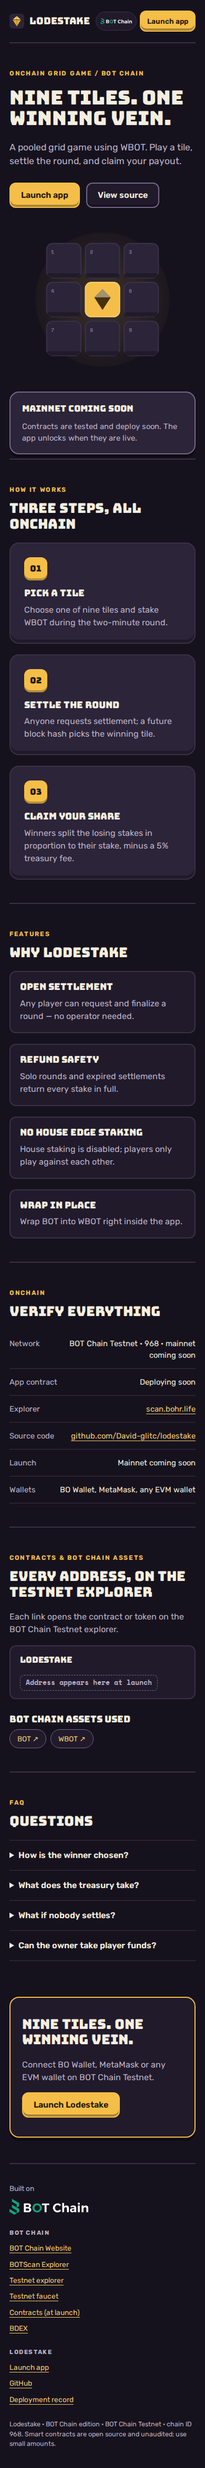
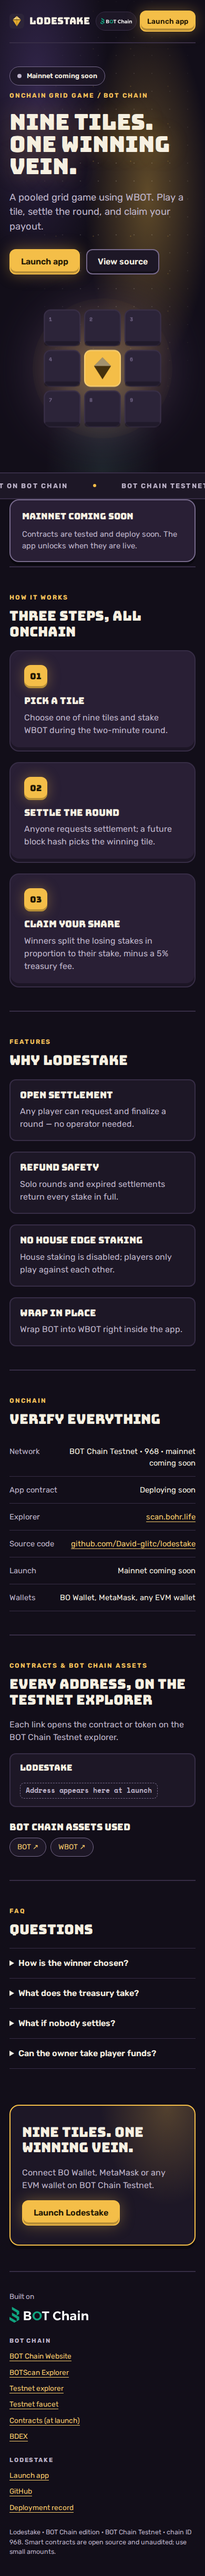
Dark web3 design: glowing heroes, status chip, ticker

diff --git a/web/base.css b/web/base.css
@@ -2,6 +2,7 @@
    theme's tokens (web/themes/<slug>/theme.css). Do not add raw colors here; add a token instead. See DESIGN.md. */
 *{box-sizing:border-box}
 :root{font-family:var(--font-body);color:var(--ink);background:var(--bg);font-synthesis:none;color-scheme:var(--scheme);-webkit-text-size-adjust:100%}
+html,body{overflow-x:clip}
 body{margin:0;background:var(--bg);line-height:1.5}
 button,input,select,textarea{font:inherit;color:inherit}
 button,a,input,textarea,select,summary{-webkit-tap-highlight-color:transparent}
@@ -9,7 +10,7 @@ button,a,input,textarea,select,summary{-webkit-tap-highlight-color:transparent}
 a{color:var(--link);text-underline-offset:4px;text-decoration-thickness:1px}
 a:hover{text-decoration-thickness:2px}
 h1,h2,h3{font-family:var(--font-display);font-weight:var(--display-weight);letter-spacing:var(--display-tracking);text-transform:var(--display-case);color:var(--ink);line-height:1.12}
-h1{font-size:clamp(2.4rem,5.4vw,4.4rem);margin:16px 0 22px;max-width:16ch;line-height:1.02}
+h1{font-size:clamp(2.8rem,7vw,6rem);margin:18px 0 24px;max-width:13ch;line-height:.98}
 h2{font-size:clamp(1.6rem,3vw,2.3rem);margin:0 0 20px}
 h3{font-size:1.1rem;margin:0 0 10px}
 p{color:var(--ink-2);margin:0 0 16px}
@@ -26,7 +27,7 @@ button.primary:hover:not(:disabled),a.button.primary:hover{background:var(--acce
 button:disabled{cursor:not-allowed;opacity:.55;box-shadow:none}
 
 /* Header */
-header{display:flex;align-items:center;justify-content:space-between;gap:20px;padding:20px 0;border-bottom:var(--border-w) solid var(--line)}
+header{position:relative;z-index:3;display:flex;align-items:center;justify-content:space-between;gap:20px;padding:20px 0;border-bottom:var(--border-w) solid var(--line)}
 .brand{display:flex;align-items:center;gap:10px;color:var(--ink);text-decoration:none;font-family:var(--font-display);font-weight:var(--display-weight);letter-spacing:var(--display-tracking);text-transform:var(--display-case);font-size:1.45rem}
 .brand .logo{width:34px;height:34px;flex:none;display:block}
 .site-nav{display:flex;gap:24px;font-size:.95rem}
@@ -40,12 +41,26 @@ header{display:flex;align-items:center;justify-content:space-between;gap:20px;pa
 /* Eyebrow and labels */
 .eyebrow{display:inline-block;font-family:var(--font-label);font-size:.75rem;font-weight:700;letter-spacing:var(--label-tracking);text-transform:uppercase;color:var(--accent-text)}
 
-/* Landing hero */
-.hero{display:grid;grid-template-columns:minmax(0,1.15fr) minmax(0,1fr);grid-template-areas:"copy art";gap:48px;align-items:center;padding:72px 0 56px}
+/* Landing hero: full-bleed glow mesh and texture behind the header and hero, per-theme tokens. */
+.hero{position:relative;isolation:isolate;display:grid;grid-template-columns:minmax(0,1.1fr) minmax(0,1fr);grid-template-areas:"copy art";gap:48px;align-items:center;min-height:min(84vh,820px);padding:64px 0 72px}
+.hero:before,.hero:after{content:'';position:absolute;left:50%;width:100vw;transform:translateX(-50%);top:-96px;bottom:0;z-index:-2;pointer-events:none}
+.hero:before{background:var(--hero-bg)}
+.hero:after{z-index:-1;background:var(--hero-pattern);background-size:var(--hero-pattern-size);-webkit-mask-image:radial-gradient(ellipse 70% 65% at 60% 45%,#000 20%,transparent 75%);mask-image:radial-gradient(ellipse 70% 65% at 60% 45%,#000 20%,transparent 75%);opacity:var(--hero-pattern-opacity)}
 .hero>div:first-child{grid-area:copy}
-.hero p{font-size:1.1rem;max-width:52ch}
-.hero-art{grid-area:art;display:flex;justify-content:center;align-items:center}
-.hero-art svg{width:100%;max-width:460px;height:auto;display:block}
+.hero p{font-size:1.15rem;max-width:50ch}
+.hero-chip{display:inline-flex;align-items:center;gap:10px;margin-bottom:6px;padding:7px 14px;border:1px solid var(--line-strong);border-radius:var(--radius-pill);background:var(--chip-bg);font-family:var(--font-label);font-size:.8rem;font-weight:600;color:var(--ink)}
+.hero-chip:before{content:'';width:8px;height:8px;border-radius:50%;background:var(--live);box-shadow:0 0 0 4px var(--live-ring);animation:pulse 2.4s ease-in-out infinite}
+.hero-chip.pending:before{background:var(--ink-2);box-shadow:none;animation:none}
+.hero-art{grid-area:art;position:relative;display:flex;justify-content:center;align-items:center}
+.hero-art:before{content:'';position:absolute;inset:8% 6%;z-index:-1;border-radius:50%;background:var(--art-glow);filter:blur(48px);opacity:.75}
+.hero-art svg{width:100%;max-width:500px;height:auto;display:block;animation:float 7s ease-in-out infinite}
+@keyframes float{0%,100%{transform:translateY(0)}50%{transform:translateY(-12px)}}
+@keyframes pulse{0%,100%{box-shadow:0 0 0 4px var(--live-ring)}50%{box-shadow:0 0 0 8px transparent}}
+.ticker{position:relative;left:50%;width:100vw;transform:translateX(-50%);overflow:hidden;border-top:var(--border-w) solid var(--line);border-bottom:var(--border-w) solid var(--line);background:var(--ticker-bg)}
+.ticker-track{display:flex;width:max-content;gap:48px;padding:14px 0;animation:marquee 46s linear infinite}
+.ticker span{display:inline-flex;align-items:center;gap:48px;font-family:var(--font-label);font-size:.8rem;font-weight:700;letter-spacing:var(--label-tracking);text-transform:uppercase;color:var(--ink-2);white-space:nowrap}
+.ticker span:after{content:'';width:6px;height:6px;border-radius:50%;background:var(--accent)}
+@keyframes marquee{to{transform:translateX(-50%)}}
 .cta-row{display:flex;flex-wrap:wrap;gap:12px;margin-top:28px}
 .launch{display:flex;flex-wrap:wrap;align-items:center;justify-content:space-between;gap:10px 24px;padding:18px 22px;margin-bottom:8px;border:var(--border-w) solid var(--accent);border-radius:var(--radius-lg);background:var(--surface);box-shadow:var(--shadow-1)}
 .launch.pending{border-color:var(--line-strong)}
@@ -82,7 +97,8 @@ header{display:flex;align-items:center;justify-content:space-between;gap:20px;pa
 .assets a:hover{border-color:var(--accent)}
 
 /* App page */
-.app-intro{padding:44px 0 24px}
+.app-intro{position:relative;isolation:isolate;padding:52px 0 32px}
+.app-intro:before{content:'';position:absolute;left:50%;width:100vw;transform:translateX(-50%);top:-96px;bottom:-24px;z-index:-1;pointer-events:none;background:var(--hero-bg);opacity:.75;-webkit-mask-image:linear-gradient(#000 55%,transparent);mask-image:linear-gradient(#000 55%,transparent)}
 .app-intro h1{font-size:clamp(2rem,4vw,3rem);margin:12px 0}
 .app-intro p{margin:0}
 .status{margin-bottom:24px;padding:16px 20px;border:var(--border-w) solid var(--line);border-left-width:var(--border-w);border-radius:var(--radius-md);background:var(--surface);color:var(--ink);font-size:.92rem;overflow-wrap:anywhere}
@@ -146,7 +162,7 @@ dialog form>button{width:100%}
 .legal{grid-column:1/-1;margin:0;font-size:.78rem}
 .hidden{display:none!important}
 
-@media(max-width:860px){.site-nav{display:none}.steps,.features,.facts{grid-template-columns:1fr}.site-footer{grid-template-columns:1fr}.hero{grid-template-columns:1fr;grid-template-areas:"copy" "art";gap:32px;padding:44px 0 32px}.hero-art svg{max-width:340px}.layout{grid-template-columns:1fr}}
+@media(max-width:860px){.site-nav{display:none}.steps,.features,.facts{grid-template-columns:1fr}.site-footer{grid-template-columns:1fr}.hero{grid-template-columns:1fr;grid-template-areas:"copy" "art";gap:32px;min-height:0;padding:44px 0 48px}.hero-art svg{max-width:360px}.layout{grid-template-columns:1fr}}
 @media(max-width:760px){.shell{padding:0 18px}.band{padding:44px 0}.panel{padding:20px}.cta-band{padding:36px 22px}#add-chain{display:none}.chain-badge.compact{display:none}}
-@media(max-width:480px){header{gap:10px}.header-actions{gap:6px}.chain-badge span{display:none}.chain-badge{padding:6px 8px}.chain-badge img{height:12px}.header-actions a.button{min-height:40px;padding:8px 12px;font-size:.85rem}.brand{font-size:1.15rem}.brand .logo{width:28px;height:28px}h1{font-size:2.3rem}}
+@media(max-width:480px){header{gap:10px}.header-actions{gap:6px}.chain-badge span{display:none}.chain-badge{padding:6px 8px}.chain-badge img{height:12px}.header-actions a.button{min-height:40px;padding:8px 12px;font-size:.85rem}.brand{font-size:1.15rem}.brand .logo{width:28px;height:28px}h1{font-size:2.6rem}}
 @media(prefers-reduced-motion:reduce){*,*:before,*:after{transition:none!important;animation:none!important;scroll-behavior:auto!important}}

diff --git a/web/landing.html b/web/landing.html
@@ -1,1 +1,1 @@
-<!doctype html><html lang="en"><head><meta charset="UTF-8"><meta name="viewport" content="width=device-width,initial-scale=1"><meta name="theme-color" content="__THEME_COLOR__"><title>__NAME__ · BOT Chain</title><meta name="description" content="__DESCRIPTION__"><meta property="og:title" content="__NAME__ · BOT Chain"><meta property="og:description" content="__DESCRIPTION__"><meta property="og:type" content="website"><meta name="twitter:card" content="summary"><link rel="icon" href="/icon.svg" type="image/svg+xml"><link rel="stylesheet" href="/style.css"></head><body><a class="skip" href="#main">Skip to content</a><div class="shell"><header><a class="brand" href="/">__LOGO____NAME__</a><nav class="site-nav" aria-label="Page"><a href="#how">How it works</a><a href="#features">Features</a><a href="#contracts">Contracts</a><a href="#faq">FAQ</a><a href="__REPO_URL__" target="_blank" rel="noopener noreferrer">GitHub</a></nav><div class="header-actions"><a class="chain-badge" href="https://www.botchain.ai/" target="_blank" rel="noopener noreferrer" aria-label="Built on BOT Chain"><span>Built on</span><img src="/__BOTCHAIN_LOGO__" alt="BOT Chain" width="96" height="19"></a><a class="button primary" href="/app/">Launch app</a></div></header><main id="main"><section class="hero"><div><span class="eyebrow">__EYEBROW__ / BOT CHAIN</span><h1>__LINE__</h1><p>__DESCRIPTION__</p><div class="cta-row"><a class="button primary" href="/app/">Launch app</a><a class="button" href="__REPO_URL__" target="_blank" rel="noopener noreferrer">View source</a></div></div><div class="hero-art">__HERO_ART__</div></section>__LAUNCH__<section id="how" class="band"><span class="eyebrow">How it works</span><h2>Three steps, all onchain</h2><ol class="steps">__STEPS__</ol></section><section id="features" class="band"><span class="eyebrow">Features</span><h2>Why __NAME__</h2><div class="features">__FEATURES__</div></section><section id="onchain" class="band"><span class="eyebrow">Onchain</span><h2>Verify everything</h2><dl class="facts">__FACTS__</dl></section><section id="contracts" class="band"><span class="eyebrow">Contracts &amp; BOT Chain assets</span><h2>Every address, on __EXPLORER__</h2><p>Each link opens the contract or token on __EXPLORER_LONG__.</p><div class="contracts">__CONTRACTS__</div><h3 class="assets-title">BOT Chain assets used</h3><ul class="assets">__ASSETS__</ul></section><section id="faq" class="band"><span class="eyebrow">FAQ</span><h2>Questions</h2><div class="faq">__FAQ__</div></section><section class="cta-band"><h2>__LINE__</h2><p>Connect BO Wallet, MetaMask or any EVM wallet on __NETWORK__.</p><a class="button primary" href="/app/">Launch __NAME__</a></section></main>__FOOTER__</div></body></html>
+<!doctype html><html lang="en"><head><meta charset="UTF-8"><meta name="viewport" content="width=device-width,initial-scale=1"><meta name="theme-color" content="__THEME_COLOR__"><title>__NAME__ · BOT Chain</title><meta name="description" content="__DESCRIPTION__"><meta property="og:title" content="__NAME__ · BOT Chain"><meta property="og:description" content="__DESCRIPTION__"><meta property="og:type" content="website"><meta name="twitter:card" content="summary"><link rel="icon" href="/icon.svg" type="image/svg+xml"><link rel="stylesheet" href="/style.css"></head><body><a class="skip" href="#main">Skip to content</a><div class="shell"><header><a class="brand" href="/">__LOGO____NAME__</a><nav class="site-nav" aria-label="Page"><a href="#how">How it works</a><a href="#features">Features</a><a href="#contracts">Contracts</a><a href="#faq">FAQ</a><a href="__REPO_URL__" target="_blank" rel="noopener noreferrer">GitHub</a></nav><div class="header-actions"><a class="chain-badge" href="https://www.botchain.ai/" target="_blank" rel="noopener noreferrer" aria-label="Built on BOT Chain"><span>Built on</span><img src="/__BOTCHAIN_LOGO__" alt="BOT Chain" width="96" height="19"></a><a class="button primary" href="/app/">Launch app</a></div></header><main id="main"><section class="hero"><div>__HERO_CHIP__<br><span class="eyebrow">__EYEBROW__ / BOT CHAIN</span><h1>__LINE__</h1><p>__DESCRIPTION__</p><div class="cta-row"><a class="button primary" href="/app/">Launch app</a><a class="button" href="__REPO_URL__" target="_blank" rel="noopener noreferrer">View source</a></div></div><div class="hero-art">__HERO_ART__</div></section><div class="ticker" aria-hidden="true"><div class="ticker-track">__TICKER__</div></div>__LAUNCH__<section id="how" class="band"><span class="eyebrow">How it works</span><h2>Three steps, all onchain</h2><ol class="steps">__STEPS__</ol></section><section id="features" class="band"><span class="eyebrow">Features</span><h2>Why __NAME__</h2><div class="features">__FEATURES__</div></section><section id="onchain" class="band"><span class="eyebrow">Onchain</span><h2>Verify everything</h2><dl class="facts">__FACTS__</dl></section><section id="contracts" class="band"><span class="eyebrow">Contracts &amp; BOT Chain assets</span><h2>Every address, on __EXPLORER__</h2><p>Each link opens the contract or token on __EXPLORER_LONG__.</p><div class="contracts">__CONTRACTS__</div><h3 class="assets-title">BOT Chain assets used</h3><ul class="assets">__ASSETS__</ul></section><section id="faq" class="band"><span class="eyebrow">FAQ</span><h2>Questions</h2><div class="faq">__FAQ__</div></section><section class="cta-band"><h2>__LINE__</h2><p>Connect BO Wallet, MetaMask or any EVM wallet on __NETWORK__.</p><a class="button primary" href="/app/">Launch __NAME__</a></section></main>__FOOTER__</div></body></html>

diff --git a/web/themes/lodestake/theme.css b/web/themes/lodestake/theme.css
@@ -1,20 +1,24 @@
 @import url('https://fonts.googleapis.com/css2?family=Bungee&family=Rubik:wght@400;500;600;700&family=Space+Mono:wght@700&display=swap');
-/* Lodestake: a cave lit by one gold vein. Dark amethyst rock, chunky beveled tiles, game-like display type. */
-:root{--scheme:dark;--bg:#16121D;--surface:#211A2B;--surface-2:#2C2439;--input-bg:#120E18;--tile:#2C2439;
- --ink:#F4EEDF;--ink-2:#BDB3C9;--line:#3A3048;--line-strong:#75688A;
- --accent:#F4BE48;--accent-hover:#F8CF72;--accent-ink:#241904;--accent-text:#F4BE48;--link:#F6CB6B;--focus:#7DE0C3;
- --danger:#EF6B5B;--danger-bg:#33171A;--danger-text:#F59384;--scrim:rgba(8,5,12,.72);
+/* Lodestake: a cave lit by one gold vein. Amethyst rock, gold ore light, chunky beveled tiles, game display type. */
+:root{--scheme:dark;--bg:#120E19;--surface:#1D1726;--surface-2:#291F35;--input-bg:#0E0A14;--tile:#291F35;
+ --ink:#F6F0E1;--ink-2:#BFB5CB;--line:#372D46;--line-strong:#776A8C;
+ --accent:#F4BE48;--accent-hover:#F8CF72;--accent-ink:#241904;--accent-text:#F5C25A;--link:#F6CB6B;--focus:#7DE0C3;
+ --danger:#EF6B5B;--danger-bg:#33171A;--danger-text:#F59384;--scrim:rgba(8,5,12,.75);
  --radius-sm:8px;--radius-md:12px;--radius-lg:18px;--radius-btn:12px;--radius-pill:999px;--border-w:2px;
- --shadow-1:0 6px 0 rgba(0,0,0,.35);--shadow-2:0 24px 60px rgba(0,0,0,.55);--shadow-btn:inset 0 -4px 0 rgba(0,0,0,.3);
+ --shadow-1:0 6px 0 rgba(0,0,0,.4);--shadow-2:0 24px 60px rgba(0,0,0,.6);--shadow-btn:inset 0 -4px 0 rgba(0,0,0,.3);
  --font-display:'Bungee','Arial Black',sans-serif;--font-body:'Rubik',system-ui,sans-serif;--font-label:'Rubik',system-ui,sans-serif;--font-mono:'Space Mono',ui-monospace,monospace;
- --display-weight:400;--display-tracking:0;--display-case:none;--label-tracking:.14em}
-/* Rock tiles: beveled cards, gold-lit numbers, chunky game buttons. */
-h1{font-size:clamp(2.3rem,5vw,4rem);line-height:1.05}
+ --display-weight:400;--display-tracking:0;--display-case:none;--label-tracking:.16em;
+ --hero-bg:radial-gradient(45% 55% at 72% 42%,rgba(244,190,72,.34),transparent 68%),radial-gradient(50% 60% at 18% 20%,rgba(140,104,214,.26),transparent 70%),radial-gradient(40% 40% at 50% 100%,rgba(125,224,195,.10),transparent 70%),var(--bg);
+ --hero-pattern:radial-gradient(rgba(246,240,225,.28) 1.2px,transparent 1.6px),radial-gradient(rgba(244,190,72,.35) 1px,transparent 1.4px);--hero-pattern-size:34px 34px,71px 71px;--hero-pattern-opacity:.6;
+ --chip-bg:rgba(29,23,38,.8);--live:#7DE0C3;--live-ring:rgba(125,224,195,.28);--art-glow:radial-gradient(circle,rgba(244,190,72,.7),rgba(140,104,214,.3) 55%,transparent 72%);--ticker-bg:#1D1726}
+/* Gem-lit tiles, game buttons, gold ticker dots. */
+h1{font-size:clamp(2.6rem,6.4vw,5.4rem);line-height:1.02;text-shadow:0 0 40px rgba(244,190,72,.25)}
 h2{line-height:1.15}
-.steps li{background:var(--surface-2);box-shadow:inset 0 -6px 0 rgba(0,0,0,.28)}
-.steps li:before{display:inline-grid;place-items:center;width:44px;height:44px;border-radius:12px;background:var(--accent);color:var(--accent-ink);font-family:var(--font-display);font-weight:400;box-shadow:inset 0 -4px 0 rgba(0,0,0,.25)}
+.steps li{background:var(--surface-2);box-shadow:inset 0 -6px 0 rgba(0,0,0,.3)}
+.steps li:before{display:inline-grid;place-items:center;width:44px;height:44px;border-radius:12px;background:var(--accent);color:var(--accent-ink);font-family:var(--font-display);font-weight:400;box-shadow:inset 0 -4px 0 rgba(0,0,0,.25),0 0 24px rgba(244,190,72,.35)}
 .features div{border-left:0;background:var(--surface);border:2px solid var(--line);border-radius:var(--radius-md);padding:18px}
 .grid button{box-shadow:inset 0 -6px 0 rgba(0,0,0,.3);font-family:var(--font-display)}
-.grid button[aria-pressed=true]{box-shadow:inset 0 -6px 0 rgba(0,0,0,.22),0 0 0 3px var(--focus)}
+.grid button[aria-pressed=true]{box-shadow:inset 0 -6px 0 rgba(0,0,0,.22),0 0 0 3px var(--focus),0 0 30px rgba(244,190,72,.45)}
+button.primary,a.button.primary{box-shadow:inset 0 -4px 0 rgba(0,0,0,.25),0 0 28px rgba(244,190,72,.35)}
 .launch{background:var(--surface-2)}
-.cta-band{background:var(--surface);border-color:var(--accent)}
+.cta-band{background:radial-gradient(60% 120% at 85% 0%,rgba(244,190,72,.25),transparent 60%),var(--surface);border-color:var(--accent)}

diff --git a/DESIGN.md b/DESIGN.md
@@ -28,20 +28,28 @@ Six products share one HTML structure and one app runtime, but each has its own 
 
 ## The six identities
 
-| Product | Scene | Register | Palette | Type | Shape and signature |
-|---|---|---|---|---|---|
-| **Hedgerow** | A holder reads a basket like a fund factsheet before committing | Light, editorial | Paper `#F3EEE3`, forest `#2E5B39`, ochre focus | Fraunces / Public Sans / IBM Plex Mono | 2–6px radii, double rule under header, ruled factsheet steps, serif numerals |
-| **Switchyard** | A trader swaps at night between other tabs | Dark, signage | Steel `#111315`, signal amber `#F2A93B`, cyan focus | Barlow Condensed (caps) / Barlow / JetBrains Mono | Square, hazard strip, departure-board steps, mono figures |
-| **Lodestake** | A player grabs a round on a lunch break | Dark, game | Amethyst rock `#16121D`, gold ore `#F4BE48`, mint focus | Bungee / Rubik / Space Mono | 8–18px radii, 2px borders, beveled tiles and buttons |
-| **Showproof** | Someone in a group chat snaps proof in daylight | Light, playful | Warm white `#FBF8F3`, coral `#C0371E`, cobalt links | Bricolage Grotesque / Figtree / DM Mono | Pill buttons with sticker shadow, taped polaroid steps, art-left hero |
-| **Stepsale** | A founder sets up a careful community sale | Light, fintech | Cool white `#F5F6FA`, deep blue `#2438C8`, green focus | Sora / Manrope / IBM Plex Mono | 8–16px radii, soft elevation, rising timeline steps |
-| **Tradelock** | Two collectors negotiate OTC and want to see the lock | Light, neo-brutalist | Cream `#F1EEE2`, ink `#111111`, acid lime `#C5F23A` | Unbounded / Work Sans / JetBrains Mono | Zero radius, 2px ink borders, offset shadows, lime heading markers |
+All six are dark (web3 register, per the owner's direction). Each keeps its own hue family, type and shape so they stay distinct.
+
+| Product | Scene | Palette | Type | Shape and signature |
+|---|---|---|---|---|
+| **Hedgerow** | A DAO treasury after dark; holders read baskets like a factsheet | Forest night `#09110D`, emerald `#7FD69A`, champagne `#E8C66B` | Fraunces / Public Sans / IBM Plex Mono | 2–8px radii, ruled factsheet steps, italic champagne numerals, dot texture |
+| **Switchyard** | A trader swaps at night between other tabs | Steel `#0C0E10`, signal amber `#F2A93B`, cyan lamp `#5FD3E6` | Barlow Condensed (caps) / Barlow / JetBrains Mono | Square, hazard strip, amber ticker band, rail-grid texture, departure-board steps |
+| **Lodestake** | A player grabs a round on a lunch break | Amethyst rock `#120E19`, gold ore `#F4BE48`, mint `#7DE0C3` | Bungee / Rubik / Space Mono | 8–18px radii, 2px borders, beveled glowing tiles, two-scale dot texture |
+| **Showproof** | A night-out photo wall; proof snapped in a group chat | Ink `#110D14`, coral `#FF6A4D`, cobalt `#93A9FF` | Bricolage Grotesque / Figtree / DM Mono | Pill buttons with coral sticker shadow, paper polaroid steps, art-left hero |
+| **Stepsale** | A launch at midnight; a founder sets careful terms | Navy `#070B1C`, electric blue `#5B7CFF`, mint `#3DDC97` | Sora / Manrope / IBM Plex Mono | 8–18px radii, rising timeline steps, fine grid texture |
+| **Tradelock** | An after-hours deal desk; collectors want to see the lock | Carbon `#0C0C0A`, bone `#F4F2E8`, acid lime `#C5F23A` | Unbounded / Work Sans / JetBrains Mono | Zero radius, 2px bone borders, lime offset shadows, lime heading markers and ticker |
+
+## Hero tokens
+
+`--hero-bg` (glow mesh), `--hero-pattern`, `--hero-pattern-size`, `--hero-pattern-opacity` (texture, masked to the hero centre), `--chip-bg`, `--live`, `--live-ring` (status chip), `--art-glow` (blur behind the hero art), `--ticker-bg` (scrolling band). The same mesh sits softly behind the app page header.
+
+**Recorded override:** the UI guidelines list glow meshes as a generic default. They are used here deliberately at the owner's request for a web3 aesthetic, kept to the hero and app header, with all text on solid dark surfaces so contrast is verifiable.
 
 ## Rules
 
 - Text pairs pass WCAG AA (4.5:1); borders, focus and state indicators pass 3:1. Check new colors with the contrast checker before shipping.
-- Tradelock's lime is 1.1:1 on its page, so every edge that must read is ink, never lime.
+- Tradelock edges that must read are bone (`--ink`); lime marks state and emphasis.
 - Theme layout overrides that change the hero grid must be wrapped in `@media(min-width:861px)` so the shared phone layout still applies.
-- No emoji as icons, no gradient text, no glow effects. Personality comes from type, shape and layout.
-- Light themes use `web/botchain-dark.svg`; dark themes use `web/botchain.svg`.
-- `prefers-reduced-motion` disables transitions and the Showproof card tilt.
+- No emoji as icons and no gradient text. Glow is limited to the hero, app header, hero art and primary game buttons; body sections stay solid.
+- Light themes use `web/botchain-dark.svg`; dark themes use `web/botchain.svg` (all six are currently dark).
+- `prefers-reduced-motion` disables transitions, the ticker, the floating hero art, the status pulse and the Showproof card tilt.
